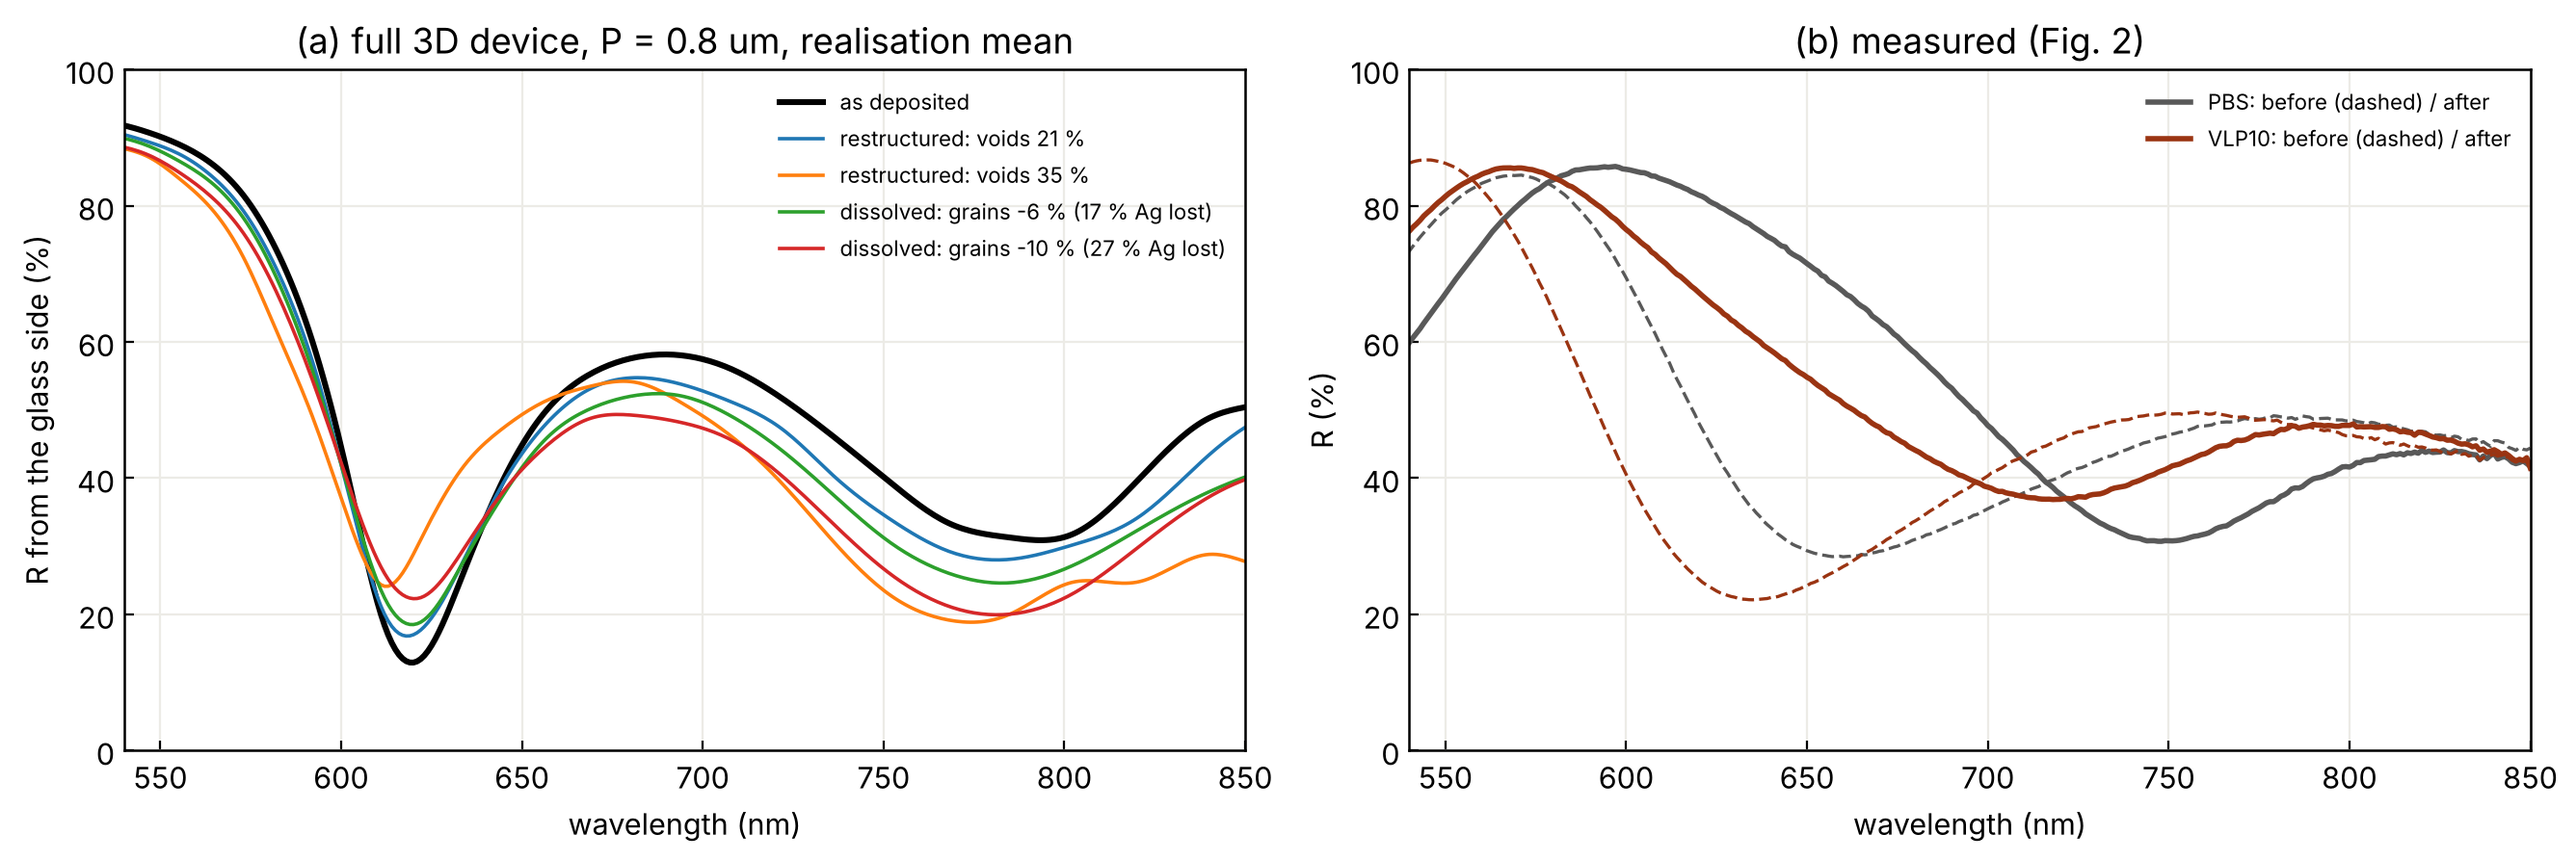
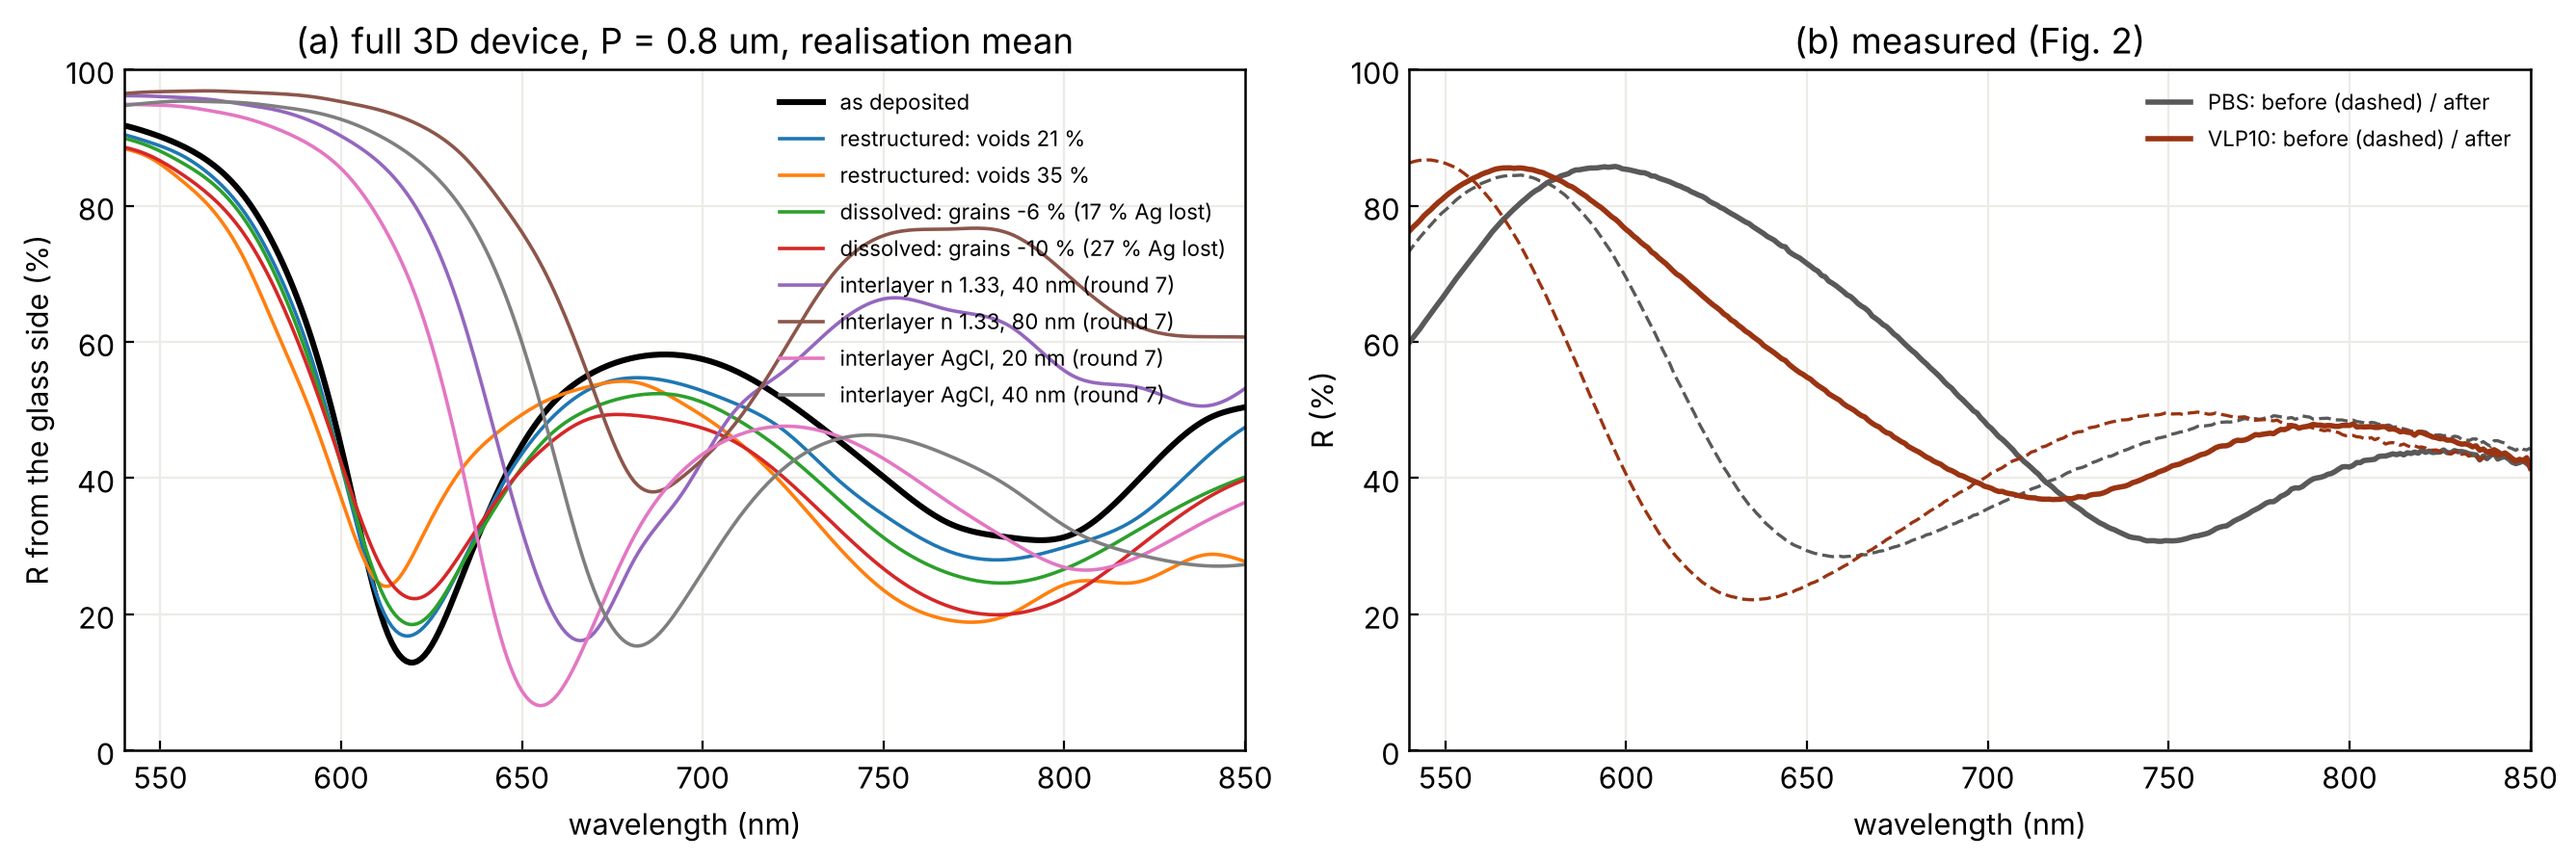
Tamm study: round-7 analysis (Ag / TiO2 interlayer reproduces the continuous red shift and the stop-band recovery)
Claude-Session: https://claude.ai/code/session_01RpLXD5KBSRmonucEmHsk6s

diff --git a/tamm/analysis/fullvol6.py b/tamm/analysis/fullvol6.py
@@ -1,4 +1,4 @@
-"""Round 6: FULL 3D Tamm device with large cells (island film + DBR + glass in one Meep run, P = 0.8 um, light from the glass side, R and T
+"""Rounds 6 and 7: FULL 3D Tamm device with large cells (island film + DBR + glass in one Meep run, P = 0.8 um, light from the glass side, R and T
 from fluxes; no cascade approximation). Realisation-mean spectra (the measured spot averages many realisations); dip position and
 depth vs the as-deposited film; compared with the measured PBS / VLP 10 ng/mL spectra (Fig. 2) and with the cascade result (round 5).
 usage: python tamm/analysis/fullvol6.py"""
@@ -10,7 +10,9 @@ import device3d_full as D, mechanisms3d as M  # noqa: E402
 plt.rcParams.update({'font.size': 11, 'axes.linewidth': 0.9, 'xtick.direction': 'in', 'ytick.direction': 'in', 'legend.frameon': False,
                      'savefig.bbox': 'tight', 'savefig.dpi': 200, 'axes.grid': True, 'grid.color': '#ecebe6'})
 LEV = [('base', 'as deposited'), ('v21', 'restructured: voids 21 %'), ('cov65', 'restructured: voids 35 %'),
-       ('sh94', 'dissolved: grains -6 % (17 % Ag lost)'), ('shrink90', 'dissolved: grains -10 % (27 % Ag lost)')]
+       ('sh94', 'dissolved: grains -6 % (17 % Ag lost)'), ('shrink90', 'dissolved: grains -10 % (27 % Ag lost)'),
+       ('FG_g133_40', 'interlayer n 1.33, 40 nm (round 7)'), ('FG_g133_80', 'interlayer n 1.33, 80 nm (round 7)'),
+       ('FG_g207_20', 'interlayer AgCl, 20 nm (round 7)'), ('FG_g207_40', 'interlayer AgCl, 40 nm (round 7)')]
 lam = D.lam
 
 
@@ -18,7 +20,7 @@ def main():
     out = dict(levels={})
     spec = {}
     for tag, lab in LEV:
-        rs = [D.load(f'FV_{tag}_s{s}_x') for s in (1, 2)]; rs = [r for r in rs if r]
+        rs = [D.load(f'{tag}_s{s}_x' if tag.startswith('FG_') else f'FV_{tag}_s{s}_x') for s in (1, 2)]; rs = [r for r in rs if r]
         if not rs: continue
         R = np.mean([r[0] for r in rs], 0); T = np.mean([r[1] for r in rs], 0); spec[tag] = (R, T)
         l, Rd = M.dip(lam, R, 590, 845)
